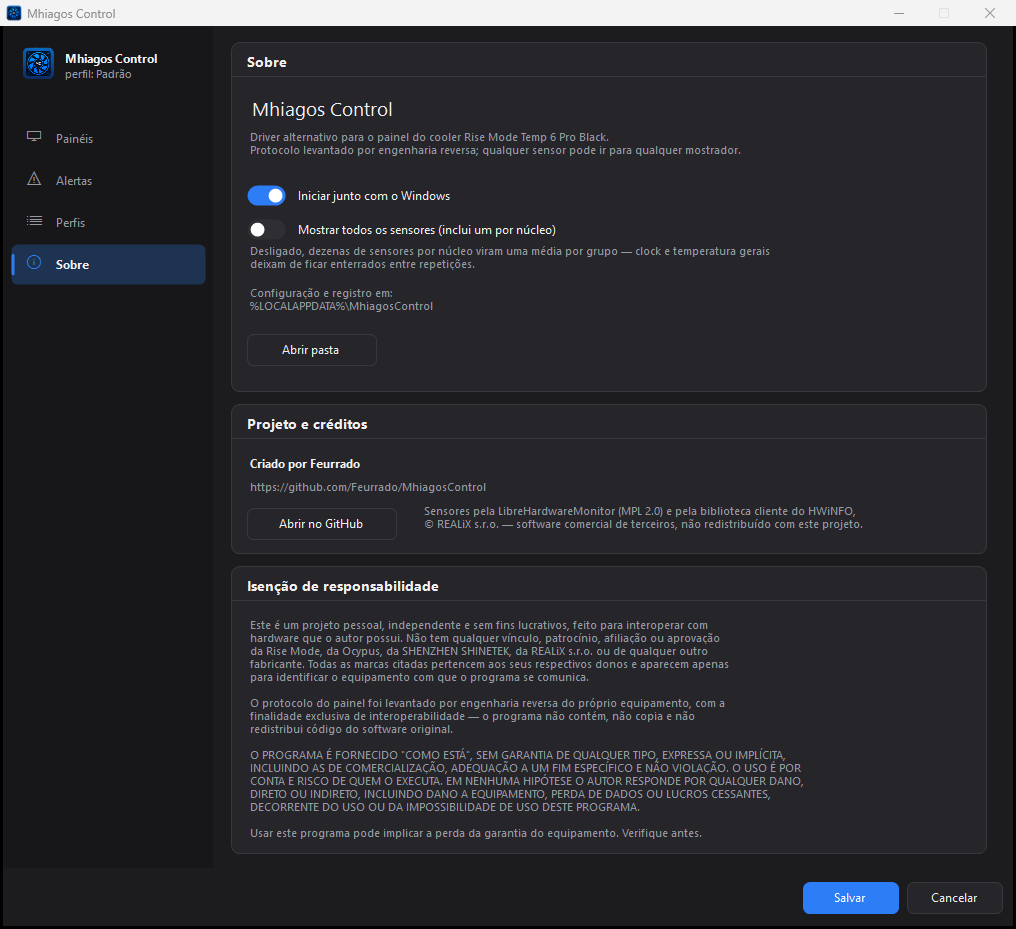
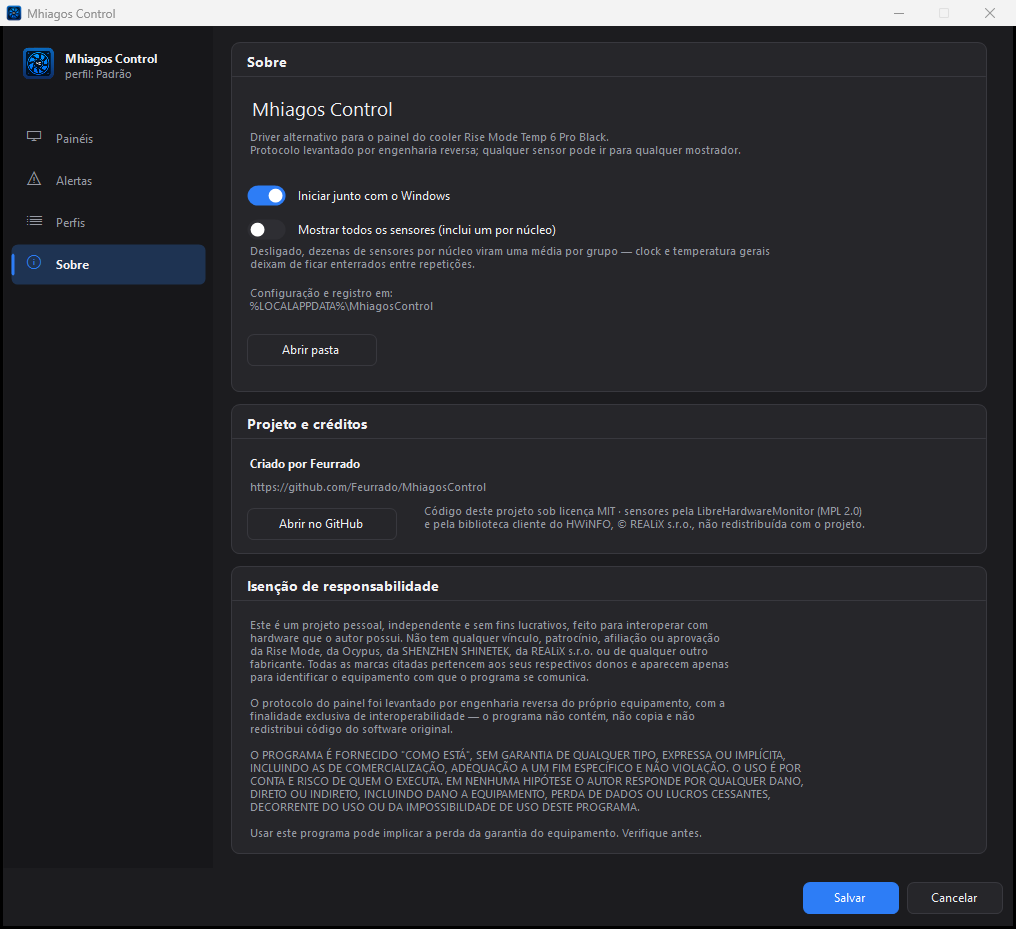
Licenca MIT
Publico sem licenca significa todos os direitos reservados: ninguem podia
usar nem contribuir, e a isencao em tela nao tem o peso contratual de uma
licenca. MIT resolve os dois e carrega a clausula de garantia.

O LICENSE fica em MIT puro, sem emendas, para o detector do GitHub
reconhecer. O alcance - o que a licenca cobre e o que e de terceiros - vai
no README, com a LibreHardwareMonitor em MPL 2.0 e a biblioteca do HWiNFO
fora dela e fora do repositorio.

A aba Sobre passa a dizer a licenca. Em duas linhas, e nao tres: a terceira
invadia o rotulo do repositorio, que atravessa aquela coluna.

Changed region(s): [[0.4272, 0.5307, 0.8543, 0.5931]]

diff --git a/src/SettingsForm.cs b/src/SettingsForm.cs
@@ -566,9 +566,11 @@ namespace MhiagosControl
             git.Click += delegate { Abrir(Repositorio); };
             cr.Controls.Add(git);
 
+            // duas linhas, e nao tres: uma terceira invade o rotulo do
+            // repositorio, que fica logo acima e atravessa esta coluna
             Label libs = MakeLabel(
-                "Sensores pela LibreHardwareMonitor (MPL 2.0) e pela biblioteca cliente do HWiNFO,\n" +
-                "© REALiX s.r.o. — software comercial de terceiros, não redistribuído com este projeto.",
+                "Código deste projeto sob licença MIT · sensores pela LibreHardwareMonitor (MPL 2.0)\n" +
+                "e pela biblioteca cliente do HWiNFO, © REALiX s.r.o., não redistribuída com o projeto.",
                 190, 100, Ui.FontSmall);
             libs.Size = new Size(552, 40);
             libs.ForeColor = Ui.Muted;
@@ -592,9 +594,11 @@ namespace MhiagosControl
         /// <summary>
         /// Texto de isencao.
         ///
-        /// Repete em tela a isencao do README porque quem instala um binario
-        /// raramente abre o repositorio - e e justamente a pessoa que precisa
-        /// saber que o programa fala com o hardware por sua conta e risco.
+        /// Repete em tela o essencial do LICENSE porque quem instala um binario
+        /// raramente abre o arquivo de licenca - e e justamente a pessoa que
+        /// precisa saber que o programa fala com o hardware por sua conta e
+        /// risco. Vai alem do MIT no que ele nao cobre: marcas de terceiros,
+        /// engenharia reversa e garantia do equipamento.
         /// </summary>
         private const string Disclaimer =
             "Este é um projeto pessoal, independente e sem fins lucrativos, feito para interoperar com\n" +

diff --git a/README.md b/README.md
@@ -306,7 +306,23 @@ com o dispositivo não envolve driver.
 
 ---
 
-## Créditos e licenças
+## Licença
+
+**MIT** — veja [`LICENSE`](LICENSE). Use, modifique e redistribua à vontade,
+mantendo o aviso de copyright.
+
+A licença cobre **o código deste repositório**. As dependências têm licença
+própria e não são cobertas por ela:
+
+| Componente | Licença |
+|------------|---------|
+| `src/`, `tools/`, `build.ps1`, `assets/` gerados | MIT |
+| `lib/LibreHardwareMonitorLib.dll` | MPL 2.0 (veja `lib/LibreHardwareMonitor-LICENSE.txt`) |
+| `engine\api-ms-win-core-sysinfo-825-64.dll` | comercial, © REALiX s.r.o. — **não redistribuir**, não está neste repositório |
+
+---
+
+## Créditos
 
 - [LibreHardwareMonitor](https://github.com/LibreHardwareMonitor/LibreHardwareMonitor) —
   fonte de reserva (MPL 2.0). Licença em `lib/LibreHardwareMonitor-LICENSE.txt`.
